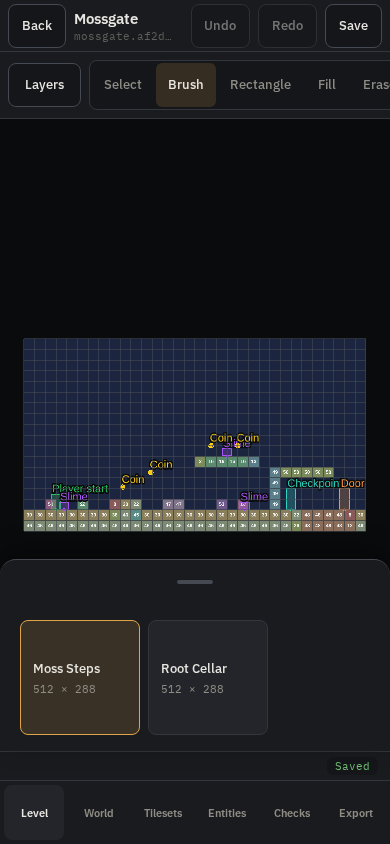
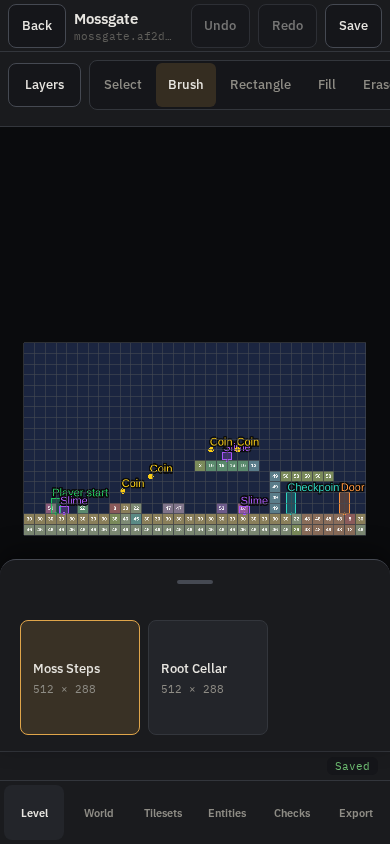
fix(editor-2d): the tool row keeps its bottom edge clear of an overlay scroll bar
Mac WebKit hit-tests its overlay scroll bar along a sideways-scrolling row's
bottom edge, covering the tools at 900x600 and 390x844 (parity job
124310463507). The row keeps 16 px there, held by a layout measure; the
review images are regenerated.

Claude-Session: https://claude.ai/code/session_01QYLU1gUDkJKWKgwehpcLRG

Changed region(s): [[0.0615, 0.4005, 0.9538, 0.6469]]

diff --git a/packages/editor-2d/src/app/level/level-view.layout.test.ts b/packages/editor-2d/src/app/level/level-view.layout.test.ts
@@ -220,6 +220,18 @@ describe.each(SIZES)('Level view inspector and dock at $name ($width x $height)'
   })
 })
 
+// macOS draws an overlay scroll bar over a sideways-scrolling row's bottom edge once it scrolls, and WebKit there
+// hit-tests it (about 15 px), so a tool laid out to the row's padding edge loses its lower taps (#272: Mac WebKit,
+// 900 x 600 and 390 x 844; the same class as #265). Linux browsers lay overlay bars out of the hit test, so the rule is
+// held here as a measure.
+describe('Level view tool row', () => {
+  test("keeps its tools clear of an overlay scroll bar's 15 px along its bottom edge", async () => {
+    await start(SIZES.find((size) => size.name === 'phone-portrait') as EditorSize)
+    const toolbar = document.querySelector<HTMLElement>('[data-testid="level-toolbar"]') as HTMLElement
+    expect(Number.parseFloat(getComputedStyle(toolbar).paddingBottom)).toBeGreaterThanOrEqual(16)
+  })
+})
+
 describe('Level view rotation', () => {
   test('1194 x 834 to 834 x 1194 keeps the chosen layer and tool and remounts nothing', async () => {
     const [landscape, portrait] = [SIZES[0], SIZES[4]] as [EditorSize, EditorSize]

diff --git a/packages/editor-2d/src/app/level/LevelToolbar.svelte b/packages/editor-2d/src/app/level/LevelToolbar.svelte
@@ -99,7 +99,9 @@ const isTool = (id: string): id is LevelTool => TOOLS.some((each) => each.id ===
     display: flex;
     align-items: center;
     gap: var(--space-2);
-    padding: var(--space-2);
+    /* The bottom edge keeps 16 px: macOS lays its overlay scroll bar (about 15 px, hit-tested in Safari) along it once
+       the row scrolls sideways, and a tool under it would lose its taps there (#272, as #265 for region bodies). */
+    padding: var(--space-2) var(--space-2) var(--space-4);
     overflow-x: auto;
     overscroll-behavior-x: contain;
     border-bottom: 1px solid var(--color-border-default);

diff --git a/docs/superpowers/plans/2026-10-30-ed2d-4c4b-inspector-dock.md b/docs/superpowers/plans/2026-10-30-ed2d-4c4b-inspector-dock.md
@@ -78,3 +78,5 @@ Each step: the test first, run `pnpm --filter @mcthaydt/automata-editor-2d exec 
 - 2026-10-30, step 8: the inspector's "Level" tab made three rail tests (`DocumentScreen.dom.test.ts` ×2, `boot.dom.test.ts` ×1) find two "Level" tabs; they now query inside the rail's own tablist ("Views"), which is what they meant. 36 passed.
 - 2026-10-30, step 8: `LevelView.dom.test.ts` gained the journey (place a Slime with the brush, Hit points up one, Tint to another swatch, a typed 12 refused with the max in the message and no step added, then both undone) and the shortcuts (R G E I B choose the tools, `]` and `[` the brush size, arrows and shift-arrows nudge from the canvas, `Mod+D`, `Delete` and `Mod+Z` each one step, letters ignored in a text field); 15 passed. They were written after step 8's wiring (above), so their first run passed apart from test mistakes (the inspector's tabs queried inside its own tablist, `[` escaped for user-event). Deviation: the platformer template has no `enum` field, so the journey edits an int and a colour; the enum widget is covered by `FieldEditor.dom.test.ts`. `level-view.layout.test.ts` gained the inspector (320 px in `wide`, opened from the toolbar below it), the dock (148 px under the canvas in tall `wide`, a sheet behind Levels otherwise) and the essentials (tools, Undo, Layers, Export) at the eight sizes; 147 passed in Chromium, WebKit and Firefox. Its first run failed 4 tests per browser, each fixed for the cause: (1) the dock's strip declared `data-scroll-region="inline"`, which the layout contract does not know, so a card past its side read as cut; it now declares `both`, as the shell's dock body does (a real fix in `LevelDock.svelte`); (2) the tools sit in the toolbar's declared sideways scroll region, so on a narrow canvas the later tools are reached by scrolling the row; the test scrolls each one into view and checks it lands whole without the page moving, rather than asking all six to be on screen at once; (3) at 900 x 600 the canvas is 260 px wide beside the rail, the 264 px panel and the 320 px inspector (spec §12's reference columns), under the old "a third of the window" bar; the bar is now 240 px for a `wide` window under 1000 px (decision for the Owner's veto; folding the inspector into a drawer in narrow `wide` windows would be a kit change). The rail tests' tab query now reads the "Views" tablist only.
 - 2026-10-30, step 9: seven review images (1194×834, 1133×744, 834×1194 and 390×844; the inspector and the dock) from the layout test's Chromium run, with a README table, in `docs/evidence/owner-visual/2026-10-30-ed2d-4c4b/`. Nothing is selected in them, so the inspector shows its Level tab; the Entity tab is covered in jsdom. The kit counts 1133×744 as a tall `wide` height, so the dock is inline there (spec §12 calls the iPad mini short); that is the kit's height tier, left as it is. Gates after merging `origin/main`: `pnpm format` clean; the first `TURBO_FORCE=true pnpm check` failed svelte-check on a widened tuple in the new shortcut test (fixed with `as const`), then failed `tooling/api-report`'s seam test: `editor-2d.api.md` lacked the controller's new `select(ids)` (step 6), so the report is updated with `pnpm api-report --update` (one added line; the kit's exports did not change); `test:unit` 2396 passed; `test:layout` 342 passed in Chromium, WebKit and Firefox; `test:canvas` 84 passed, 12 skipped (`level-visuals.canvas.test.ts` in Chromium and WebKit, which writes review images only under `ED2D_VISUALS=1`). No changeset (private package).
+- 2026-10-30, CI fix (the Mac CI's parity job 124310463507, WebKit only): `level-view.layout.test.ts:219` failed at 900×600 and 390×844, "Select is covered or clipped at its bottom edge" (and Layers at 390×844); Chromium and Firefox passed. Cause: macOS WebKit's overlay scroll bar along the sideways-scrolling tool row's bottom edge, hit-tested, over 8 px of padding (the class #265 fixed for region bodies). Linux browsers keep overlay bars out of the hit test, so the failure does not reproduce here; the rule is held as a measure, as #265 did: a new case, "keeps its tools clear of an overlay scroll bar's 15 px along its bottom edge", failed first in WebKit (`expected 8 to be greater than or equal to 16`), then `LevelToolbar.svelte` keeps a 16 px bottom padding. `src/app/level` layout: 150 passed across Chromium, WebKit and Firefox; the whole editor-2d layout project in WebKit: 115 passed. The seven review images are regenerated (the row is 8 px taller), with a README note.
+

diff --git a/docs/evidence/owner-visual/2026-10-30-ed2d-4c4b/README.md b/docs/evidence/owner-visual/2026-10-30-ed2d-4c4b/README.md
@@ -19,3 +19,9 @@ arrives, and below `wide` the toolbar gains Levels and Inspector buttons.
 | `level-dock-ipad-pro-11-portrait.png` | 834×1194, `medium` | The dock sheet with its grab handle and the two level cards above the tab bar; the canvas keeps the full width | New |
 | `level-inspector-phone-portrait.png` | 390×844, `compact` | The inspector as a bottom sheet (half height) with the tabs and the Music field; Back, Undo, Redo, Save and the tab bar stay in view | New |
 | `level-dock-phone-portrait.png` | 390×844, `compact` | The dock as a bottom sheet with its cards, opened by Levels (which sits at the end of the sideways-scrolling tool row) | New |
+
+**Regenerated 2026-10-30 after the Mac CI's WebKit parity run (job 124310463507):** every image above. The level
+toolbar (Layers, then the tool row) keeps a 16 px bottom edge instead of 8 px, so the row is 8 px taller and the canvas
+below it starts 8 px lower; the tools, their order and everything else are unchanged. macOS lays its overlay scroll bar
+(about 15 px, hit-tested in Safari) along a sideways-scrolling row's bottom edge, which covered the tools' lower edge
+at 900×600 and 390×844 ("Select is covered or clipped at its bottom edge"), the same class as #265's region bodies.
